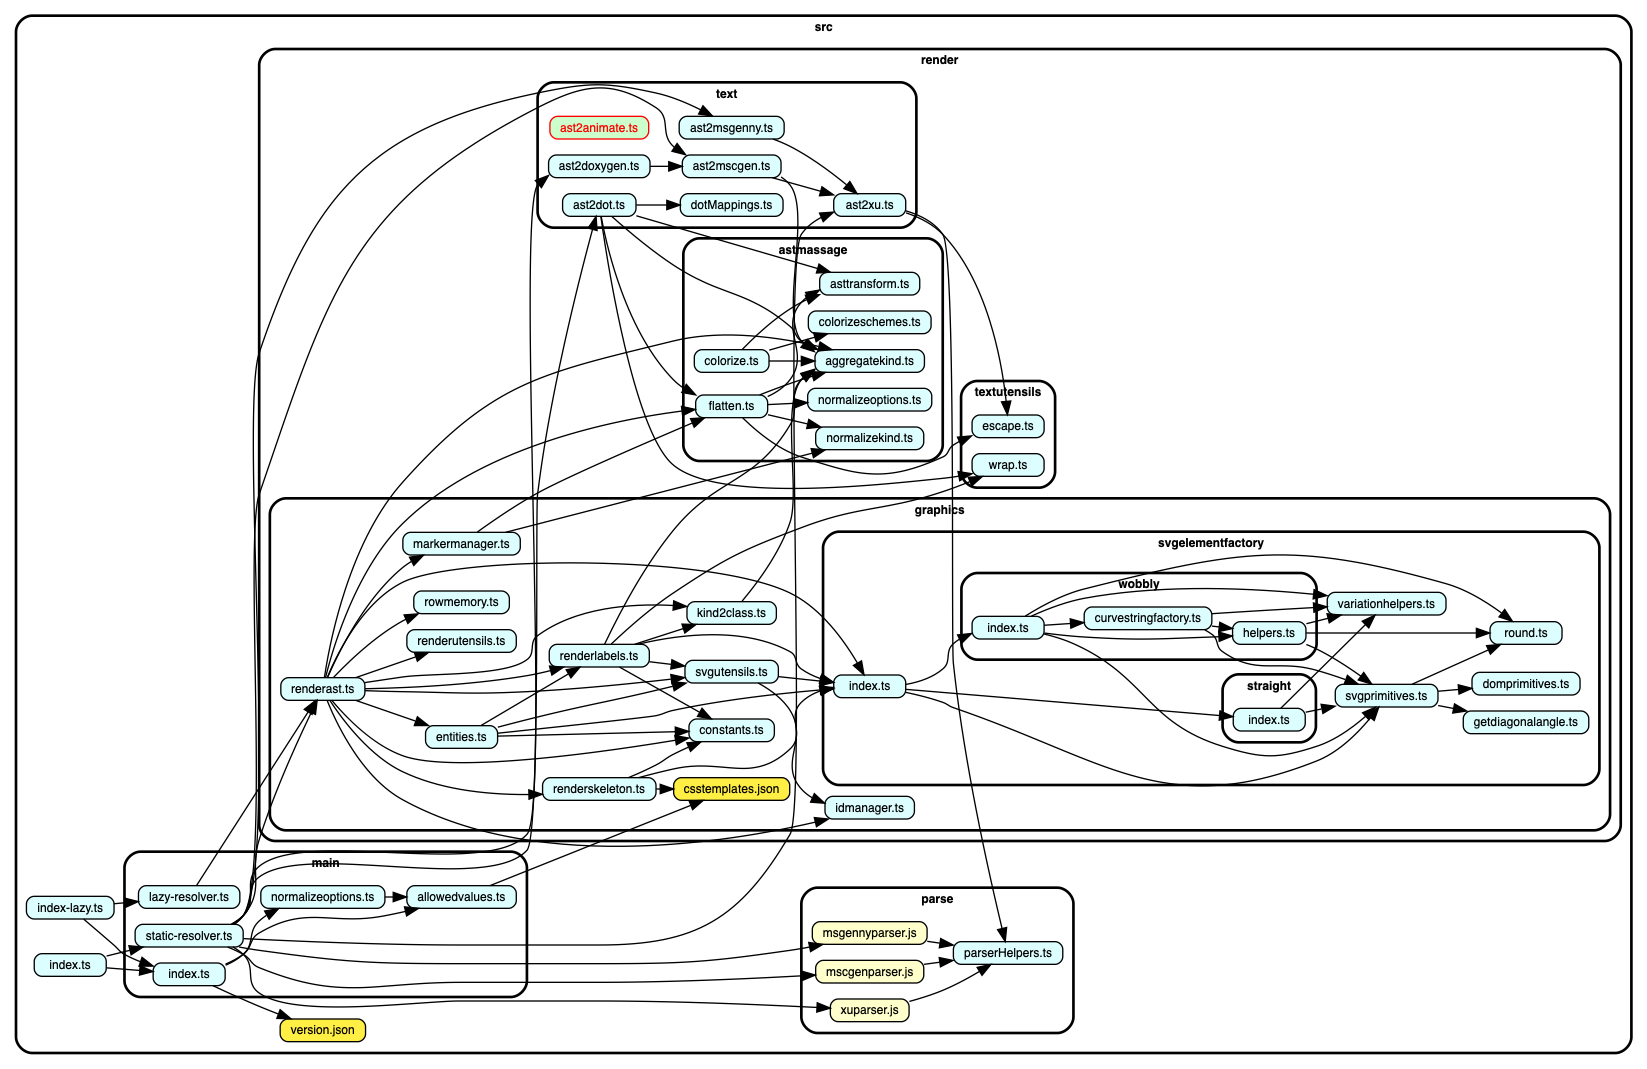
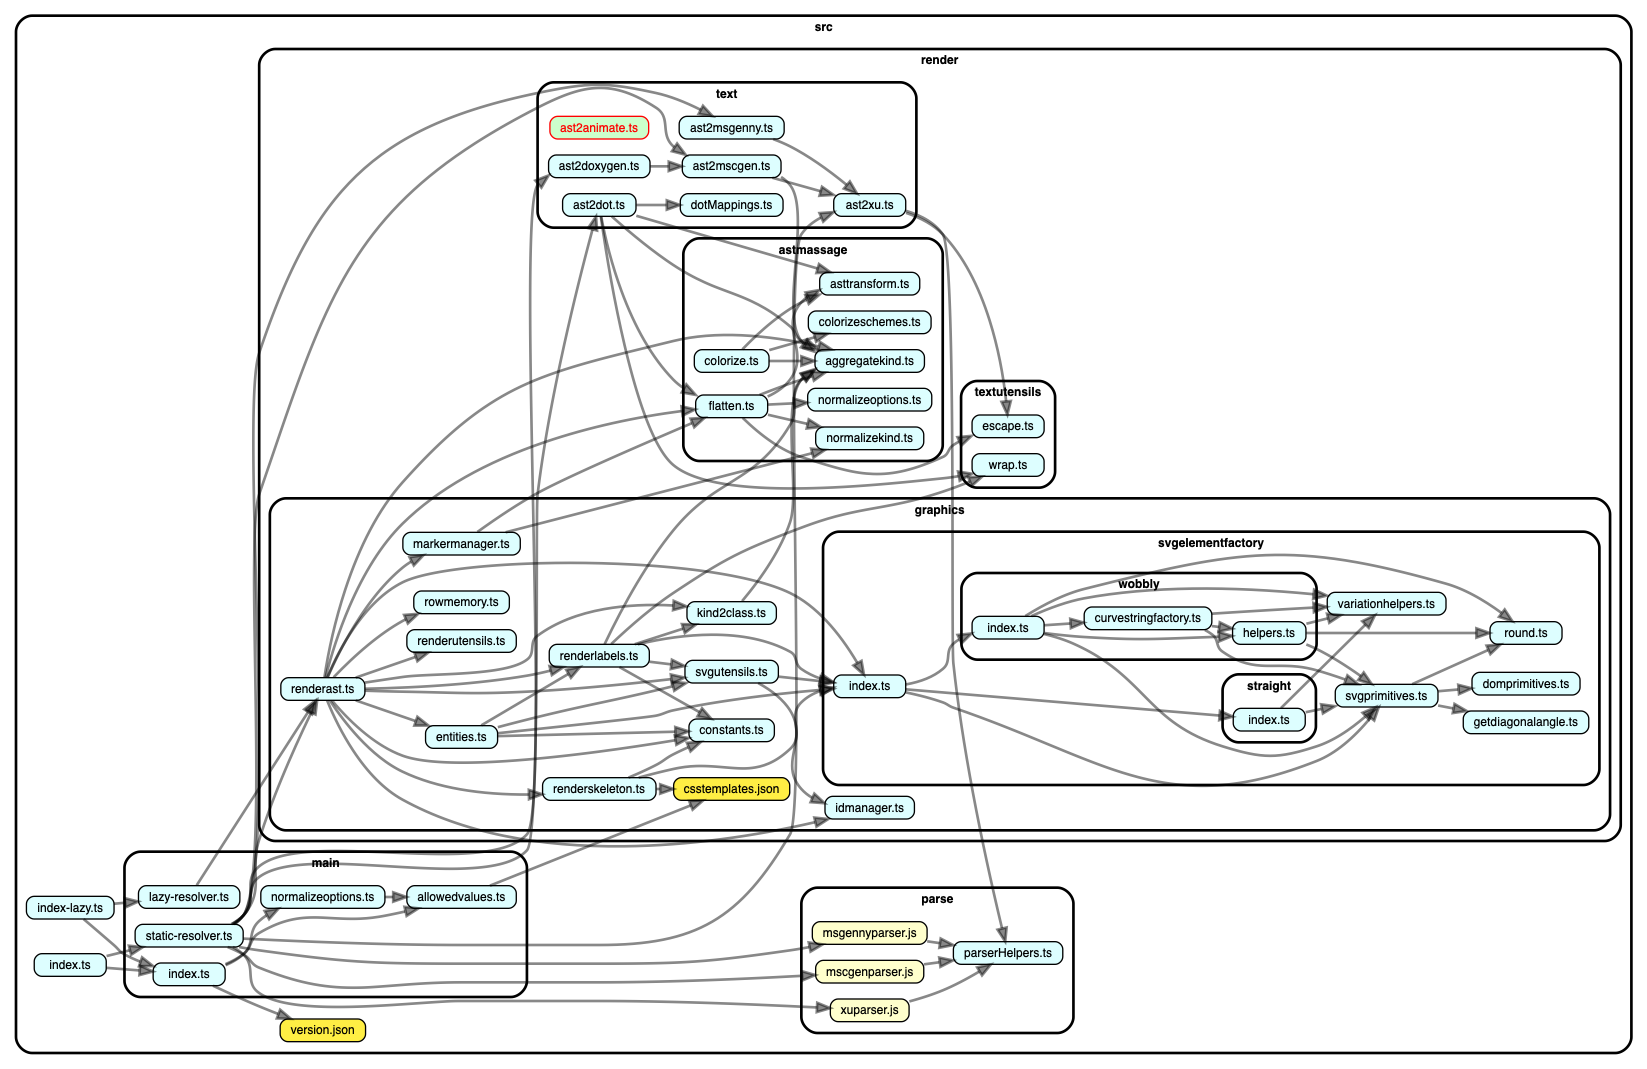
build(npm): :arrow_up: @types/jest, @types/node, dependency-cruiser, jest, jsdom, tslint, typescript, webpack-cli

diff --git a/doc/dependencygraph.html b/doc/dependencygraph.html
@@ -4,24 +4,25 @@
         <meta charset="utf-8">
         <title>dependency-cruiser dependency-graph</title>
         <style>
+            .node:active path, .node:hover path {
+                stroke:fuchsia;
+                stroke-width:2;
+            }
+            .node:active text, .node:hover text {
+                fill:fuchsia;
+            }
             .edge:active path, .edge:hover path{
                 stroke:fuchsia;
-                stroke-width:3;
                 stroke-opacity:1;
             }
             .edge:active polygon, .edge:hover polygon  {
                 stroke:fuchsia;
-                stroke-width:3;
                 fill:fuchsia;
                 stroke-opacity:1;
                 fill-opacity:1;
             }
             .edge:active text, .edge:hover text{
                 fill:fuchsia;
-            }
-            .cluster path {
-               stroke-width:3;
-               fill: white;
             }
             .cluster:active path, .cluster:hover path {
                 fill: #ffff0011;
@@ -42,57 +43,57 @@
 <polygon fill="#ffffff" stroke="transparent" points="-4,4 -4,-798 1231.5496,-798 1231.5496,4 -4,4"/>
 <g id="clust1" class="cluster">
 <title>cluster_src</title>
-<path fill="none" stroke="#000000" stroke-width="2" d="M20,-8C20,-8 1207.5496,-8 1207.5496,-8 1213.5496,-8 1219.5496,-14 1219.5496,-20 1219.5496,-20 1219.5496,-774 1219.5496,-774 1219.5496,-780 1213.5496,-786 1207.5496,-786 1207.5496,-786 20,-786 20,-786 14,-786 8,-780 8,-774 8,-774 8,-20 8,-20 8,-14 14,-8 20,-8"/>
+<path fill="#ffffff" stroke="#000000" stroke-width="2" d="M20,-8C20,-8 1207.5496,-8 1207.5496,-8 1213.5496,-8 1219.5496,-14 1219.5496,-20 1219.5496,-20 1219.5496,-774 1219.5496,-774 1219.5496,-780 1213.5496,-786 1207.5496,-786 1207.5496,-786 20,-786 20,-786 14,-786 8,-780 8,-774 8,-774 8,-20 8,-20 8,-14 14,-8 20,-8"/>
 <text text-anchor="middle" x="613.7748" y="-774.8" font-family="Helvetica,sans-Serif" font-weight="bold" font-size="9.00" fill="#000000">src</text>
 </g>
 <g id="clust2" class="cluster">
 <title>cluster_src/main</title>
-<path fill="none" stroke="#000000" stroke-width="2" d="M101.355,-50C101.355,-50 379.1978,-50 379.1978,-50 385.1978,-50 391.1978,-56 391.1978,-62 391.1978,-62 391.1978,-147 391.1978,-147 391.1978,-153 385.1978,-159 379.1978,-159 379.1978,-159 101.355,-159 101.355,-159 95.355,-159 89.355,-153 89.355,-147 89.355,-147 89.355,-62 89.355,-62 89.355,-56 95.355,-50 101.355,-50"/>
+<path fill="#ffffff" stroke="#000000" stroke-width="2" d="M101.355,-50C101.355,-50 379.1978,-50 379.1978,-50 385.1978,-50 391.1978,-56 391.1978,-62 391.1978,-62 391.1978,-147 391.1978,-147 391.1978,-153 385.1978,-159 379.1978,-159 379.1978,-159 101.355,-159 101.355,-159 95.355,-159 89.355,-153 89.355,-147 89.355,-147 89.355,-62 89.355,-62 89.355,-56 95.355,-50 101.355,-50"/>
 <text text-anchor="middle" x="240.2764" y="-147.8" font-family="Helvetica,sans-Serif" font-weight="bold" font-size="9.00" fill="#000000">main</text>
 </g>
 <g id="clust3" class="cluster">
 <title>cluster_src/parse</title>
-<path fill="none" stroke="#000000" stroke-width="2" d="M609.0164,-23C609.0164,-23 789.0767,-23 789.0767,-23 795.0767,-23 801.0767,-29 801.0767,-35 801.0767,-35 801.0767,-120 801.0767,-120 801.0767,-126 795.0767,-132 789.0767,-132 789.0767,-132 609.0164,-132 609.0164,-132 603.0164,-132 597.0164,-126 597.0164,-120 597.0164,-120 597.0164,-35 597.0164,-35 597.0164,-29 603.0164,-23 609.0164,-23"/>
+<path fill="#ffffff" stroke="#000000" stroke-width="2" d="M609.0164,-23C609.0164,-23 789.0767,-23 789.0767,-23 795.0767,-23 801.0767,-29 801.0767,-35 801.0767,-35 801.0767,-120 801.0767,-120 801.0767,-126 795.0767,-132 789.0767,-132 789.0767,-132 609.0164,-132 609.0164,-132 603.0164,-132 597.0164,-126 597.0164,-120 597.0164,-120 597.0164,-35 597.0164,-35 597.0164,-29 603.0164,-23 609.0164,-23"/>
 <text text-anchor="middle" x="699.0465" y="-120.8" font-family="Helvetica,sans-Serif" font-weight="bold" font-size="9.00" fill="#000000">parse</text>
 </g>
 <g id="clust4" class="cluster">
 <title>cluster_src/render</title>
-<path fill="none" stroke="#000000" stroke-width="2" d="M202.3838,-167C202.3838,-167 1199.5496,-167 1199.5496,-167 1205.5496,-167 1211.5496,-173 1211.5496,-179 1211.5496,-179 1211.5496,-749 1211.5496,-749 1211.5496,-755 1205.5496,-761 1199.5496,-761 1199.5496,-761 202.3838,-761 202.3838,-761 196.3838,-761 190.3838,-755 190.3838,-749 190.3838,-749 190.3838,-179 190.3838,-179 190.3838,-173 196.3838,-167 202.3838,-167"/>
+<path fill="#ffffff" stroke="#000000" stroke-width="2" d="M202.3838,-167C202.3838,-167 1199.5496,-167 1199.5496,-167 1205.5496,-167 1211.5496,-173 1211.5496,-179 1211.5496,-179 1211.5496,-749 1211.5496,-749 1211.5496,-755 1205.5496,-761 1199.5496,-761 1199.5496,-761 202.3838,-761 202.3838,-761 196.3838,-761 190.3838,-755 190.3838,-749 190.3838,-749 190.3838,-179 190.3838,-179 190.3838,-173 196.3838,-167 202.3838,-167"/>
 <text text-anchor="middle" x="700.9667" y="-749.8" font-family="Helvetica,sans-Serif" font-weight="bold" font-size="9.00" fill="#000000">render</text>
 </g>
 <g id="clust5" class="cluster">
 <title>cluster_src/render/astmassage</title>
-<path fill="none" stroke="#000000" stroke-width="2" d="M520.4946,-452C520.4946,-452 691.0532,-452 691.0532,-452 697.0532,-452 703.0532,-458 703.0532,-464 703.0532,-464 703.0532,-607 703.0532,-607 703.0532,-613 697.0532,-619 691.0532,-619 691.0532,-619 520.4946,-619 520.4946,-619 514.4946,-619 508.4946,-613 508.4946,-607 508.4946,-607 508.4946,-464 508.4946,-464 508.4946,-458 514.4946,-452 520.4946,-452"/>
+<path fill="#ffffff" stroke="#000000" stroke-width="2" d="M520.4946,-452C520.4946,-452 691.0532,-452 691.0532,-452 697.0532,-452 703.0532,-458 703.0532,-464 703.0532,-464 703.0532,-607 703.0532,-607 703.0532,-613 697.0532,-619 691.0532,-619 691.0532,-619 520.4946,-619 520.4946,-619 514.4946,-619 508.4946,-613 508.4946,-607 508.4946,-607 508.4946,-464 508.4946,-464 508.4946,-458 514.4946,-452 520.4946,-452"/>
 <text text-anchor="middle" x="605.7739" y="-607.8" font-family="Helvetica,sans-Serif" font-weight="bold" font-size="9.00" fill="#000000">astmassage</text>
 </g>
 <g id="clust6" class="cluster">
 <title>cluster_src/render/graphics</title>
-<path fill="none" stroke="#000000" stroke-width="2" d="M210.3838,-175C210.3838,-175 1191.5496,-175 1191.5496,-175 1197.5496,-175 1203.5496,-181 1203.5496,-187 1203.5496,-187 1203.5496,-412 1203.5496,-412 1203.5496,-418 1197.5496,-424 1191.5496,-424 1191.5496,-424 210.3838,-424 210.3838,-424 204.3838,-424 198.3838,-418 198.3838,-412 198.3838,-412 198.3838,-187 198.3838,-187 198.3838,-181 204.3838,-175 210.3838,-175"/>
+<path fill="#ffffff" stroke="#000000" stroke-width="2" d="M210.3838,-175C210.3838,-175 1191.5496,-175 1191.5496,-175 1197.5496,-175 1203.5496,-181 1203.5496,-187 1203.5496,-187 1203.5496,-412 1203.5496,-412 1203.5496,-418 1197.5496,-424 1191.5496,-424 1191.5496,-424 210.3838,-424 210.3838,-424 204.3838,-424 198.3838,-418 198.3838,-412 198.3838,-412 198.3838,-187 198.3838,-187 198.3838,-181 204.3838,-175 210.3838,-175"/>
 <text text-anchor="middle" x="700.9667" y="-412.8" font-family="Helvetica,sans-Serif" font-weight="bold" font-size="9.00" fill="#000000">graphics</text>
 </g>
 <g id="clust7" class="cluster">
 <title>cluster_src/render/graphics/svgelementfactory</title>
-<path fill="none" stroke="#000000" stroke-width="2" d="M625.2847,-209C625.2847,-209 1183.5496,-209 1183.5496,-209 1189.5496,-209 1195.5496,-215 1195.5496,-221 1195.5496,-221 1195.5496,-387 1195.5496,-387 1195.5496,-393 1189.5496,-399 1183.5496,-399 1183.5496,-399 625.2847,-399 625.2847,-399 619.2847,-399 613.2847,-393 613.2847,-387 613.2847,-387 613.2847,-221 613.2847,-221 613.2847,-215 619.2847,-209 625.2847,-209"/>
+<path fill="#ffffff" stroke="#000000" stroke-width="2" d="M625.2847,-209C625.2847,-209 1183.5496,-209 1183.5496,-209 1189.5496,-209 1195.5496,-215 1195.5496,-221 1195.5496,-221 1195.5496,-387 1195.5496,-387 1195.5496,-393 1189.5496,-399 1183.5496,-399 1183.5496,-399 625.2847,-399 625.2847,-399 619.2847,-399 613.2847,-393 613.2847,-387 613.2847,-387 613.2847,-221 613.2847,-221 613.2847,-215 619.2847,-209 625.2847,-209"/>
 <text text-anchor="middle" x="904.4171" y="-387.8" font-family="Helvetica,sans-Serif" font-weight="bold" font-size="9.00" fill="#000000">svgelementfactory</text>
 </g>
 <g id="clust8" class="cluster">
 <title>cluster_src/render/graphics/svgelementfactory/straight</title>
-<path fill="none" stroke="#000000" stroke-width="2" d="M924.9385,-241C924.9385,-241 970.9385,-241 970.9385,-241 976.9385,-241 982.9385,-247 982.9385,-253 982.9385,-253 982.9385,-280 982.9385,-280 982.9385,-286 976.9385,-292 970.9385,-292 970.9385,-292 924.9385,-292 924.9385,-292 918.9385,-292 912.9385,-286 912.9385,-280 912.9385,-280 912.9385,-253 912.9385,-253 912.9385,-247 918.9385,-241 924.9385,-241"/>
+<path fill="#ffffff" stroke="#000000" stroke-width="2" d="M924.9385,-241C924.9385,-241 970.9385,-241 970.9385,-241 976.9385,-241 982.9385,-247 982.9385,-253 982.9385,-253 982.9385,-280 982.9385,-280 982.9385,-286 976.9385,-292 970.9385,-292 970.9385,-292 924.9385,-292 924.9385,-292 918.9385,-292 912.9385,-286 912.9385,-280 912.9385,-280 912.9385,-253 912.9385,-253 912.9385,-247 918.9385,-241 924.9385,-241"/>
 <text text-anchor="middle" x="947.9385" y="-280.8" font-family="Helvetica,sans-Serif" font-weight="bold" font-size="9.00" fill="#000000">straight</text>
 </g>
 <g id="clust9" class="cluster">
 <title>cluster_src/render/graphics/svgelementfactory/wobbly</title>
-<path fill="none" stroke="#000000" stroke-width="2" d="M729.0649,-303C729.0649,-303 971.448,-303 971.448,-303 977.448,-303 983.448,-309 983.448,-315 983.448,-315 983.448,-356 983.448,-356 983.448,-362 977.448,-368 971.448,-368 971.448,-368 729.0649,-368 729.0649,-368 723.0649,-368 717.0649,-362 717.0649,-356 717.0649,-356 717.0649,-315 717.0649,-315 717.0649,-309 723.0649,-303 729.0649,-303"/>
+<path fill="#ffffff" stroke="#000000" stroke-width="2" d="M729.0649,-303C729.0649,-303 971.448,-303 971.448,-303 977.448,-303 983.448,-309 983.448,-315 983.448,-315 983.448,-356 983.448,-356 983.448,-362 977.448,-368 971.448,-368 971.448,-368 729.0649,-368 729.0649,-368 723.0649,-368 717.0649,-362 717.0649,-356 717.0649,-356 717.0649,-315 717.0649,-315 717.0649,-309 723.0649,-303 729.0649,-303"/>
 <text text-anchor="middle" x="850.2565" y="-356.8" font-family="Helvetica,sans-Serif" font-weight="bold" font-size="9.00" fill="#000000">wobbly</text>
 </g>
 <g id="clust10" class="cluster">
 <title>cluster_src/render/text</title>
-<path fill="none" stroke="#000000" stroke-width="2" d="M411.1978,-627C411.1978,-627 671.2847,-627 671.2847,-627 677.2847,-627 683.2847,-633 683.2847,-639 683.2847,-639 683.2847,-724 683.2847,-724 683.2847,-730 677.2847,-736 671.2847,-736 671.2847,-736 411.1978,-736 411.1978,-736 405.1978,-736 399.1978,-730 399.1978,-724 399.1978,-724 399.1978,-639 399.1978,-639 399.1978,-633 405.1978,-627 411.1978,-627"/>
+<path fill="#ffffff" stroke="#000000" stroke-width="2" d="M411.1978,-627C411.1978,-627 671.2847,-627 671.2847,-627 677.2847,-627 683.2847,-633 683.2847,-639 683.2847,-639 683.2847,-724 683.2847,-724 683.2847,-730 677.2847,-736 671.2847,-736 671.2847,-736 411.1978,-736 411.1978,-736 405.1978,-736 399.1978,-730 399.1978,-724 399.1978,-724 399.1978,-639 399.1978,-639 399.1978,-633 405.1978,-627 411.1978,-627"/>
 <text text-anchor="middle" x="541.2412" y="-724.8" font-family="Helvetica,sans-Serif" font-weight="bold" font-size="9.00" fill="#000000">text</text>
 </g>
 <g id="clust11" class="cluster">
 <title>cluster_src/render/textutensils</title>
-<path fill="none" stroke="#000000" stroke-width="2" d="M728.8037,-432C728.8037,-432 775.3262,-432 775.3262,-432 781.3262,-432 787.3262,-438 787.3262,-444 787.3262,-444 787.3262,-500 787.3262,-500 787.3262,-506 781.3262,-512 775.3262,-512 775.3262,-512 728.8037,-512 728.8037,-512 722.8037,-512 716.8037,-506 716.8037,-500 716.8037,-500 716.8037,-444 716.8037,-444 716.8037,-438 722.8037,-432 728.8037,-432"/>
+<path fill="#ffffff" stroke="#000000" stroke-width="2" d="M728.8037,-432C728.8037,-432 775.3262,-432 775.3262,-432 781.3262,-432 787.3262,-438 787.3262,-444 787.3262,-444 787.3262,-500 787.3262,-500 787.3262,-506 781.3262,-512 775.3262,-512 775.3262,-512 728.8037,-512 728.8037,-512 722.8037,-512 716.8037,-506 716.8037,-500 716.8037,-500 716.8037,-444 716.8037,-444 716.8037,-438 722.8037,-432 728.8037,-432"/>
 <text text-anchor="middle" x="752.0649" y="-500.8" font-family="Helvetica,sans-Serif" font-weight="bold" font-size="9.00" fill="#000000">textutensils</text>
 </g>
 <!-- src/index&#45;lazy.ts -->

diff --git a/doc/assets/depcruise-graph-head.snippet.html b/doc/assets/depcruise-graph-head.snippet.html
@@ -4,24 +4,25 @@
         <meta charset="utf-8">
         <title>dependency-cruiser dependency-graph</title>
         <style>
+            .node:active path, .node:hover path {
+                stroke:fuchsia;
+                stroke-width:2;
+            }
+            .node:active text, .node:hover text {
+                fill:fuchsia;
+            }
             .edge:active path, .edge:hover path{
                 stroke:fuchsia;
-                stroke-width:3;
                 stroke-opacity:1;
             }
             .edge:active polygon, .edge:hover polygon  {
                 stroke:fuchsia;
-                stroke-width:3;
                 fill:fuchsia;
                 stroke-opacity:1;
                 fill-opacity:1;
             }
             .edge:active text, .edge:hover text{
                 fill:fuchsia;
-            }
-            .cluster path {
-               stroke-width:3;
-               fill: white;
             }
             .cluster:active path, .cluster:hover path {
                 fill: #ffff0011;
